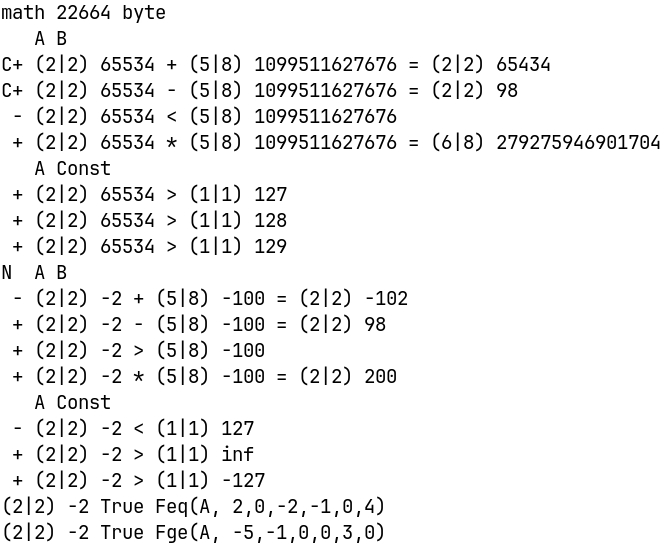
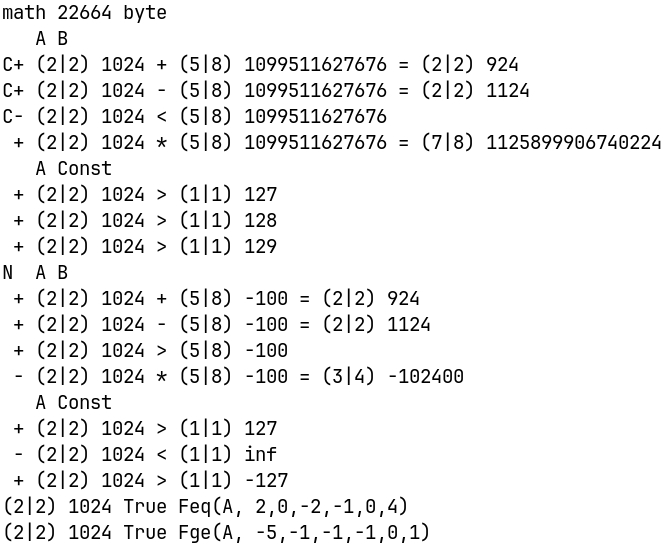
v30.2

Changed region(s): [[0.0, 0.062, 0.994, 0.9927], [0.0, 0.0, 0.241, 0.031]]

diff --git a/main.c b/main.c
@@ -9,9 +9,9 @@
 #include "math.h"
 
 #define Obe    0    // вывод на экран {0} little endian, иначе big endian
-#define MatV   0    // возможность увеличения разрядности
 #define NoSign 0    // беззнаковое представление
 #define Sign   1    // знаковое представление
+#define MatV   0    // возможность увеличения разрядности
 #define m      128  // максимальное число атомов в числах
 
 anu la,lb;
@@ -33,7 +33,7 @@ void Const(void) { an sb; anu l, i = 2; printf("   A Const\n"); Show('c'); sb = 
 void Test(void) { printf("%c%c A B\n", Mat.Nim ? 'N':' ', Mat.V ? 'V':' '); Show('+'); Show('-'); Show('?');
   Show('*'); /*Show('/');*/ Const(); }
 void Cmp(void) { Num(la, Mat.A); Mat.C = 0; printf("%s Feq(A, 2,0,-2,-1,0,4)\n", Feq(Mat.A, 2,0,-2,-1,0,4) ? "True":"False");
-  Num(la, Mat.A); printf("%s Fge(A, -5,-1,0,0,3,0)\n", Fge(Mat.A, -5,-1,0,0,3,0) ? "True":"False"); }
+  Num(la, Mat.A); printf("%s Fge(A, -5,-1,-1,-1,0,1)\n", Fge(Mat.A, -5,-1,-1,-1,0,1) ? "True":"False"); }
 
-int main(void) { anu a[m],b[m],e[m],r[m+m]; Faddr((As)r, (As)e, (As)a, (As)b); Fini(NoSign,MatV); la = Fvbe(Mat.A, -1,-2);
+int main(void) { anu a[m],b[m],e[m],r[m+m]; Faddr((As)r, (As)e, (As)a, (As)b); Fini(NoSign,MatV); la = Fvbe(Mat.A, 4,0);
   lb = Fvle(Mat.B, -100,255,255,255,255); Test(); Fset(Sign,MatV); la = Fmov(la, Mat.A); lb = Fmov(lb, Mat.B); Test(); Cmp(); return 0; }

diff --git a/README.md b/README.md
@@ -23,7 +23,7 @@
 P.s.: Блокировку убрали как только добавил сообщение о ней на главную страницу, длилась минут 20, как я заметил, и принял меры, чтобы сообщить об этом Вам. Это сообщение останется (20.09.2026 ~16.00 +7 UTF) как память, так что буду стараться вопреки невостребованности в России по данной области дабы остальной народ мог этим воспользоваться. Проанализируйте события с момента, как я вернулся в эту сферу (конец января 2026 выложен Products, готовый полностью, затем занялся Fresh в начале февраля 2026), всё это время обновлялся код и было забавно видеть на open.net новости - даже компании серьёзные - их как озарило - так что у меня нет желания и времени следить за соблюдением GPLv3 из России, если заметите нарушение лицензии, то гарантируется взаимовыгодное сотрудничество.
 
 <div align="center">
-  <h1>Результат запуска v30.0</h1>
+  <h1>Результат запуска v30.2</h1>
   
   <picture>
     <source media="(prefers-color-scheme: dark)" srcset="Plus/psb.jpeg">
